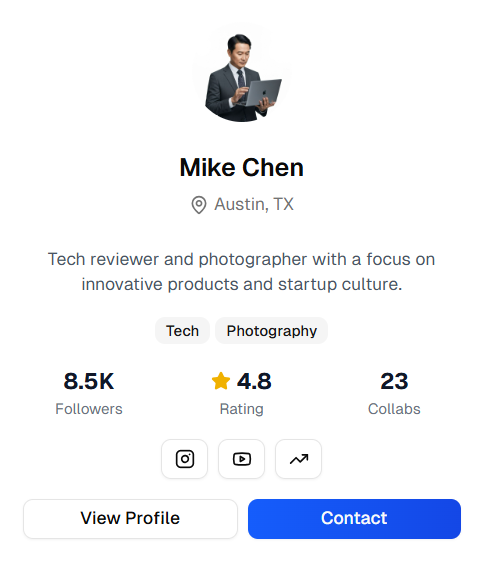
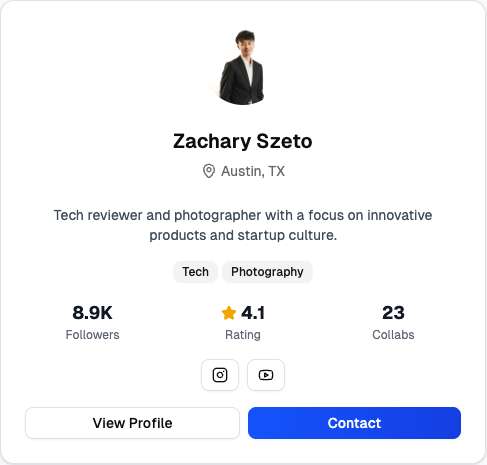
users

diff --git a/app/creators/page.tsx b/app/creators/page.tsx
@@ -154,19 +154,37 @@ export default function CreatorsPage() {
                 {/* Social Links */}
                 <div className="flex justify-center gap-2">
                   {creator.socialLinks.instagram && (
-                    <Button size="sm" variant="outline" className="p-2 bg-transparent">
-                      <Instagram className="w-4 h-4" />
-                    </Button>
+                    <a
+                      href={creator.socialLinks.instagram}
+                      target="_blank"
+                      rel="noopener noreferrer"
+                    >
+                      <Button size="sm" variant="outline" className="p-2 bg-transparent">
+                        <Instagram className="w-4 h-4" />
+                      </Button>
+                    </a>
                   )}
                   {creator.socialLinks.youtube && (
-                    <Button size="sm" variant="outline" className="p-2 bg-transparent">
-                      <Youtube className="w-4 h-4" />
-                    </Button>
+                    <a
+                      href={creator.socialLinks.youtube}
+                      target="_blank"
+                      rel="noopener noreferrer"
+                    >
+                      <Button size="sm" variant="outline" className="p-2 bg-transparent">
+                        <Youtube className="w-4 h-4" />
+                      </Button>
+                    </a>
                   )}
                   {creator.socialLinks.tiktok && (
-                    <Button size="sm" variant="outline" className="p-2 bg-transparent">
-                      <TrendingUp className="w-4 h-4" />
-                    </Button>
+                    <a
+                      href={creator.socialLinks.tiktok}
+                      target="_blank"
+                      rel="noopener noreferrer"
+                    >
+                      <Button size="sm" variant="outline" className="p-2 bg-transparent">
+                        <TrendingUp className="w-4 h-4" />
+                      </Button>
+                    </a>
                   )}
                 </div>
 
@@ -207,89 +225,89 @@ const mockCreators = [
     collaborations: 47,
     avatar: "/influencers/sesamyoilpfp.jpg",
     socialLinks: {
-      instagram: true,
-      youtube: true,
-      tiktok: false,
+      instagram: "https://www.instagram.com/sesamyoil/?hl=en", 
+      youtube: "https://www.youtube.com/@MoreBestEverFoodReviewShow",   
+      tiktok: "https://www.tiktok.com/@sesamyoil?lang=en",    
     },
   },
   {
     id: 2,
-    name: "Mike Chen",
+    name: "Zachary Szeto",
     location: "Austin, TX",
     bio: "Tech reviewer and photographer with a focus on innovative products and startup culture.",
     categories: ["Tech", "Photography"],
-    followers: "8.5K",
-    rating: 4.8,
+    followers: "8.9K",
+    rating: 4.1,
     collaborations: 23,
-    avatar: "/asian-man-tech-reviewer.jpg",
+    avatar: "/influencers/zachszeto.jpg",
     socialLinks: {
-      instagram: true,
-      youtube: true,
-      tiktok: true,
+      instagram: "d", 
+      youtube: "d",   
+      tiktok: "",    
     },
   },
   {
     id: 3,
-    name: "Emma Davis",
-    location: "Los Angeles, CA",
-    bio: "Fashion and beauty influencer helping brands connect with Gen Z through authentic storytelling.",
-    categories: ["Fashion", "Beauty"],
+    name: "Jasmine Huang",
+    location: "Waltham, MA",
+    bio: "Food & lifestyle content creator passionate about showcasing local businesses.",
+    categories: ["Fashion", "Lifestyle"],
     followers: "22.1K",
     rating: 5.0,
     collaborations: 89,
-    avatar: "/fashion-influencer-young-woman.png",
+    avatar: "/influencers/jasmine.jpg",
     socialLinks: {
-      instagram: true,
-      youtube: false,
-      tiktok: true,
+      instagram: "d", 
+      youtube: "",   
+      tiktok: "d",    
     },
   },
   {
     id: 4,
-    name: "Alex Rodriguez",
-    location: "Miami, FL",
-    bio: "Fitness coach and wellness advocate creating motivational content for active lifestyles.",
-    categories: ["Fitness", "Lifestyle"],
-    followers: "12.8K",
+    name: "Brandon Yeu",
+    location: "Hoboken, NJ",
+    bio: "Software engineering coach and music producer that loves to help others grow, both personally and professionally.",
+    categories: ["Music", "Tech", "Education"],
+    followers: "33.8K",
     rating: 4.7,
     collaborations: 34,
-    avatar: "/hispanic-man-fitness-trainer.jpg",
+    avatar: "/influencers/brandonyeu.png",
     socialLinks: {
-      instagram: true,
-      youtube: true,
-      tiktok: true,
+      instagram: "d", 
+      youtube: "s",   
+      tiktok: "s",    
     },
   },
   {
     id: 5,
-    name: "Jessica Kim",
+    name: "Sherry Lin",
     location: "New York, NY",
     bio: "Beauty guru and skincare enthusiast sharing honest reviews and tutorials with my community.",
     categories: ["Beauty", "Lifestyle"],
-    followers: "18.9K",
+    followers: "29.4K",
     rating: 4.9,
     collaborations: 56,
-    avatar: "/korean-woman-beauty-blogger.jpg",
+    avatar: "/influencers/sherrylin.jpg",
     socialLinks: {
-      instagram: true,
-      youtube: true,
-      tiktok: false,
+      instagram: "https://www.instagram.com/sherry_xoxo_15/", 
+      youtube: "",   
+      tiktok: "s",    
     },
   },
   {
     id: 6,
-    name: "David Thompson",
-    location: "Seattle, WA",
+    name: "Long Nguyen",
+    location: "Timbuctu, TX",
     bio: "Local food enthusiast and photographer documenting the Pacific Northwest culinary scene.",
     categories: ["Food & Drink", "Photography"],
-    followers: "9.3K",
+    followers: "4.1K",
     rating: 4.6,
     collaborations: 28,
-    avatar: "/bearded-man-food-photographer.jpg",
+    avatar: "/influencers/longnguyen.jpeg",
     socialLinks: {
-      instagram: true,
-      youtube: false,
-      tiktok: false,
+      instagram: "", 
+      youtube: "d",   
+      tiktok: "d",    
     },
   },
 ]

diff --git a/app/business/dashboard/page.tsx b/app/business/dashboard/page.tsx
@@ -36,16 +36,6 @@ const mockBusinessData = {
 
 const mockActiveGigs = [
   {
-    id: 999,
-    title: "TikTok for STEM Connect Career Fair",
-    budget: 400,
-    applications: 0,
-    status: "active",
-    posted: "Just now",
-    deadline: "In 3 days",
-    category: "Tech",
-  },
-  {
     id: 1,
     title: "Instagram Reel for Tea Shop",
     budget: 150,
@@ -75,13 +65,23 @@ const mockActiveGigs = [
     deadline: "In 1 week",
     category: "Food & Drink",
   },
+  {
+    id: 999,
+    title: "TikTok for STEM Connect Career Fair",
+    budget: 400,
+    applications: 0,
+    status: "active",
+    posted: "Just now",
+    deadline: "In 3 days",
+    category: "Tech",
+  },
 ]
 
 const mockApplications = [
   {
     id: 1,
     gigId: 1,
-    gigTitle: "Instagram Reel for Coffee Shop",
+    gigTitle: "Instagram Reel for Tea Shop",
     creator: {
       name: "Sarah Johnson",
       avatar: "/placeholder.svg?height=40&width=40",
@@ -221,7 +221,7 @@ export default function BusinessDashboard() {
               <CardContent>
                 <div className="grid grid-cols-1 md:grid-cols-3 gap-4">
                   <Button className="h-20 flex flex-col gap-2" asChild>
-                    <Link href="/business/post-gig">
+                    <Link href="/business">
                       <Plus className="w-6 h-6" />
                       Post New Gig
                     </Link>

diff --git a/app/page.tsx b/app/page.tsx
@@ -281,9 +281,10 @@ export default function HomePage() {
 type Dir = "next" | "prev"
 
 const HERO_IMAGES = [
-  { src: "/User1.png", alt: "Local coffee shop collab" },
-  { src: "/User2.png", alt: "Fitness studio content shoot" },
-  { src: "/User3.png", alt: "Boutique fashion unboxing" },
+  { src: "/User1.png", alt: "Brandon Yeu collab" },
+  { src: "/User2.png", alt: "Zachary Szeto collab" },
+  { src: "/User3.png", alt: "Long Nguyen collab" },
+  { src: "/User4.png", alt: "Long Nguyen collab" },
 ]
 
 const INTERVAL_MS = 4500
